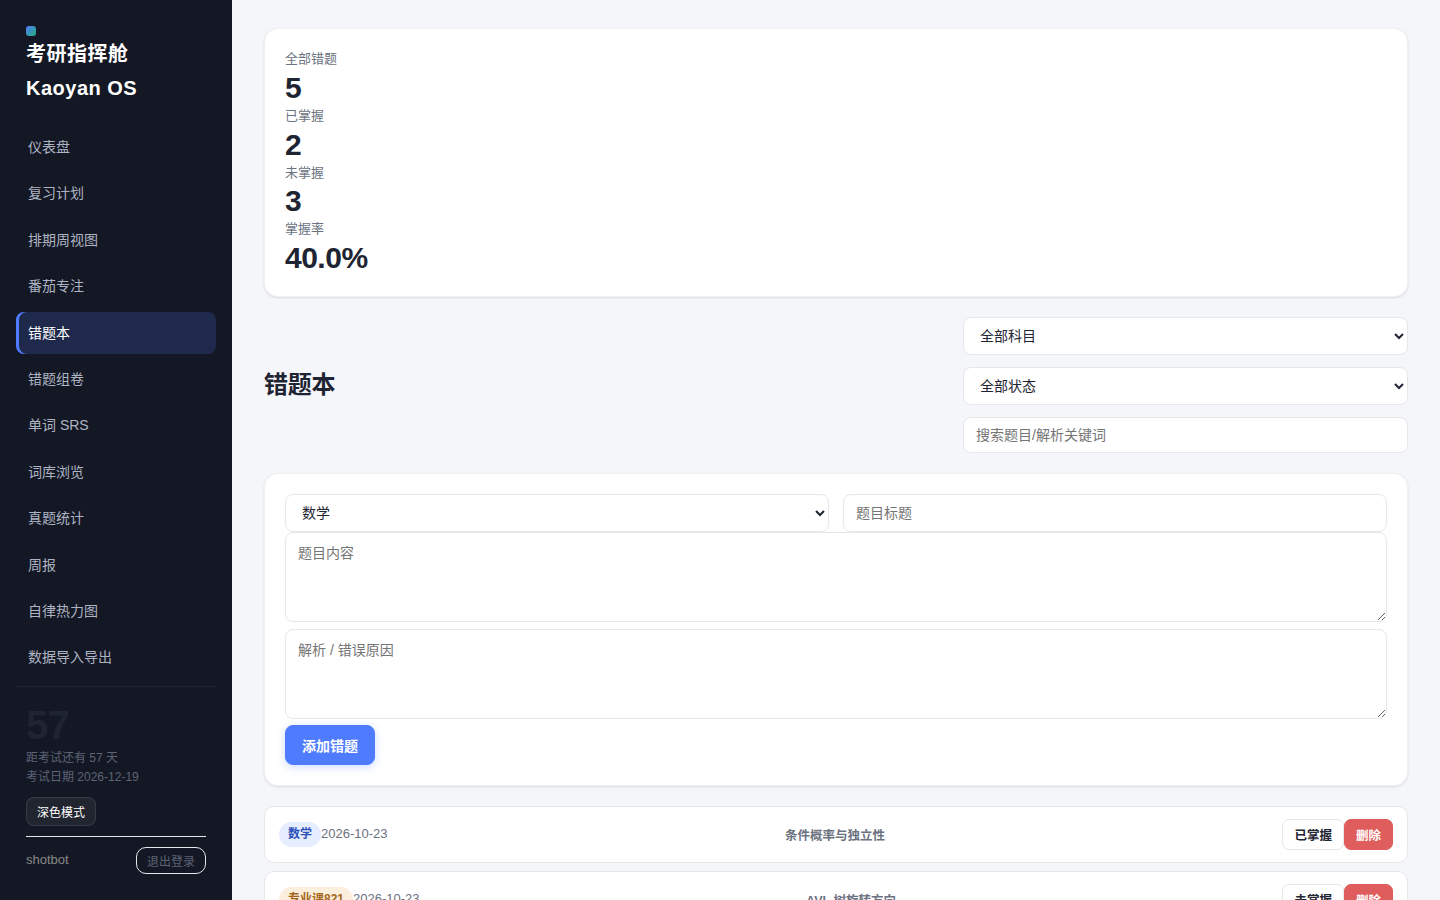
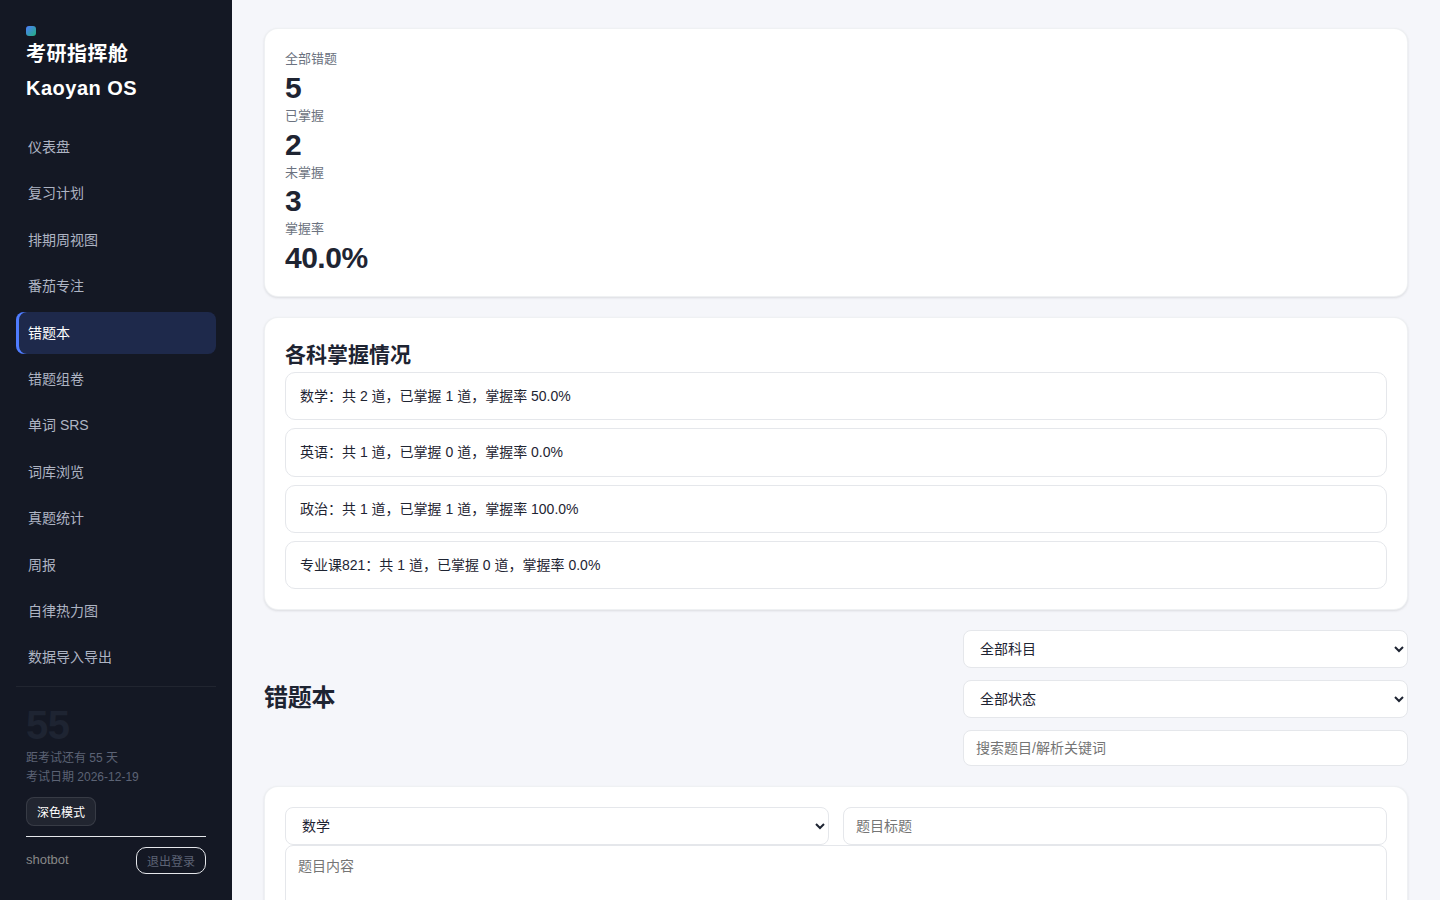
深耕轮2026-10-25 12:07（轮换到kaoyan-os）：v1.12.4「错题分科掌握率」——GET /api/mistakes/summary/by-subject + 错题页各科卡片；新测4例，靶向18例全绿，真实服务冒烟通过

diff --git a/kaoyan-os/apps/server/tests/mistakes-summary-by-subject.test.ts b/kaoyan-os/apps/server/tests/mistakes-summary-by-subject.test.ts
@@ -1,0 +1,110 @@
+import { describe, it, expect, beforeEach, afterAll } from 'vitest';
+import Fastify, { type FastifyInstance } from 'fastify';
+import { DatabaseSync } from 'node:sqlite';
+import { registerMistakesRoutes } from '../src/routes/mistakes';
+import { createDb as createRealDb } from '../src/db';
+import { applyAuthHook, registerAuthRoutes } from '../src/auth';
+import { registerAndLogin } from './test-utils';
+
+let db: DatabaseSync;
+let app: FastifyInstance;
+let authCookie: string;
+
+describe('GET /api/mistakes/summary/by-subject', () => {
+  beforeEach(async () => {
+    db = createRealDb(':memory:');
+    app = Fastify();
+    registerMistakesRoutes(app, db);
+    applyAuthHook(app, db);
+    registerAuthRoutes(app, db);
+    await app.ready();
+    authCookie = await registerAndLogin(app, 'mistakesbysubject');
+  });
+
+  afterAll(async () => {
+    if (app) await app.close();
+  });
+
+  it('空库返回 subjects 为空数组', async () => {
+    const res = await app.inject({
+      method: 'GET',
+      url: '/api/mistakes/summary/by-subject',
+      headers: { cookie: authCookie },
+    });
+    expect(res.statusCode).toBe(200);
+    expect(res.json()).toEqual({ subjects: [] });
+  });
+
+  it('分科统计精确值且按 SUBJECTS 顺序排列，零错题科目省略', async () => {
+    const insert = (
+      username: string,
+      subject: string,
+      title: string,
+      mastered: number,
+    ) => {
+      db.prepare(
+        "INSERT INTO mistakes (user_id, subject, title, mastered) VALUES ((SELECT id FROM users WHERE username = ?), ?, ?, ?)",
+      ).run(username, subject, title, mastered);
+    };
+
+    insert('mistakesbysubject', 'english', `title-en1-${Math.random()}`, 1);
+    insert('mistakesbysubject', 'politics', `title-po1-${Math.random()}`, 0);
+    insert('mistakesbysubject', 'math', `title-ma1-${Math.random()}`, 1);
+    insert('mistakesbysubject', 'math', `title-ma2-${Math.random()}`, 0);
+    insert('mistakesbysubject', 'math', `title-ma3-${Math.random()}`, 0);
+    insert('mistakesbysubject', 'english', `title-en2-${Math.random()}`, 1);
+
+    const res = await app.inject({
+      method: 'GET',
+      url: '/api/mistakes/summary/by-subject',
+      headers: { cookie: authCookie },
+    });
+    expect(res.statusCode).toBe(200);
+    expect(res.json()).toEqual({
+      subjects: [
+        { subject: 'math', total: 3, mastered: 1, unmastered: 2, masteredRate: 0.3333 },
+        { subject: 'english', total: 2, mastered: 2, unmastered: 0, masteredRate: 1 },
+        { subject: 'politics', total: 1, mastered: 0, unmastered: 1, masteredRate: 0 },
+      ],
+    });
+  });
+
+  it('只统计当前用户，他人错题不计入', async () => {
+    await registerAndLogin(app, 'mistakesbysubjectother');
+
+    const insert = (
+      username: string,
+      subject: string,
+      title: string,
+      mastered: number,
+    ) => {
+      db.prepare(
+        "INSERT INTO mistakes (user_id, subject, title, mastered) VALUES ((SELECT id FROM users WHERE username = ?), ?, ?, ?)",
+      ).run(username, subject, title, mastered);
+    };
+
+    insert('mistakesbysubjectother', 'math', `title-other1-${Math.random()}`, 1);
+    insert('mistakesbysubjectother', 'math', `title-other2-${Math.random()}`, 1);
+    insert('mistakesbysubject', 'math', `title-main1-${Math.random()}`, 0);
+
+    const res = await app.inject({
+      method: 'GET',
+      url: '/api/mistakes/summary/by-subject',
+      headers: { cookie: authCookie },
+    });
+    expect(res.statusCode).toBe(200);
+    expect(res.json()).toEqual({
+      subjects: [
+        { subject: 'math', total: 1, mastered: 0, unmastered: 1, masteredRate: 0 },
+      ],
+    });
+  });
+
+  it('未登录返回 401', async () => {
+    const res = await app.inject({
+      method: 'GET',
+      url: '/api/mistakes/summary/by-subject',
+    });
+    expect(res.statusCode).toBe(401);
+  });
+});

diff --git a/kaoyan-os/apps/server/src/routes/mistakes.ts b/kaoyan-os/apps/server/src/routes/mistakes.ts
@@ -2,10 +2,13 @@ import type { FastifyInstance } from 'fastify';
 import type { DatabaseSync } from 'node:sqlite';
 import {
   isSubjectKey,
+  SUBJECTS,
   type Mistake,
   type CreateMistakeInput,
   type UpdateMistakeInput,
   type MistakeSummary,
+  type MistakeSubjectSummary,
+  type MistakesBySubjectResponse,
   type ExamRecord,
   type QuizItem,
   type QuizGradeResult,
@@ -83,6 +86,31 @@ export function registerMistakesRoutes(app: FastifyInstance, db: DatabaseSync): 
       unmastered,
       masteredRate,
     };
+    return reply.send(result);
+  });
+
+  // 错题分科掌握率：仅返回有错题的科目，按 SUBJECTS 顺序排列
+  app.get('/api/mistakes/summary/by-subject', async (request, reply) => {
+    const rows = db
+      .prepare(
+        'SELECT subject, COUNT(*) AS total, COALESCE(SUM(mastered), 0) AS mastered FROM mistakes WHERE user_id = ? GROUP BY subject',
+      )
+      .all(request.user!.id) as Array<{ subject: string; total: number; mastered: number }>;
+
+    const subjectMap = new Map(rows.map((r) => [r.subject, r]));
+
+    const subjects: MistakeSubjectSummary[] = [];
+    for (const s of SUBJECTS) {
+      const row = subjectMap.get(s.key);
+      if (row && row.total > 0) {
+        const { total, mastered } = row;
+        const unmastered = total - mastered;
+        const masteredRate = total === 0 ? 0 : Math.round((mastered / total) * 10000) / 10000;
+        subjects.push({ subject: s.key, total, mastered, unmastered, masteredRate });
+      }
+    }
+
+    const result: MistakesBySubjectResponse = { subjects };
     return reply.send(result);
   });
 

diff --git a/kaoyan-os/apps/web/src/pages/Mistakes.tsx b/kaoyan-os/apps/web/src/pages/Mistakes.tsx
@@ -4,6 +4,7 @@ import {
   SUBJECTS,
   type Mistake,
   type MistakeSummary,
+  type MistakesBySubjectResponse,
   type SubjectKey,
   type CreateMistakeInput,
   type ExamRecord,
@@ -49,6 +50,8 @@ export default function Mistakes() {
 
   // 掌握率汇总（跟随科目筛选）
   const [summary, setSummary] = useState<MistakeSummary | null>(null)
+  // 分科掌握率，不跟随科目筛选，是全量分科
+  const [bySubject, setBySubject] = useState<MistakesBySubjectResponse | null>(null)
 
 
   // 当前展开查看详情的错题 id
@@ -109,6 +112,14 @@ export default function Mistakes() {
       })
       .catch(() => {
         if (!cancelled) setSummary(null)
+      })
+    api
+      .mistakeBySubject()
+      .then((r) => {
+        if (!cancelled) setBySubject(r)
+      })
+      .catch(() => {
+        if (!cancelled) setBySubject(null)
       })
     return () => {
       cancelled = true
@@ -197,6 +208,19 @@ export default function Mistakes() {
               </div>
             </div>
           </div>
+        </div>
+      )}
+
+      {bySubject != null && bySubject.subjects.length > 0 && (
+        <div className="card">
+          <h2>各科掌握情况</h2>
+          <ul className="list">
+            {bySubject.subjects.map((item) => (
+              <li className="list-item" key={item.subject}>
+                {subjectName(item.subject)}：共 {item.total} 道，已掌握 {item.mastered} 道，掌握率 {(item.masteredRate * 100).toFixed(1)}%
+              </li>
+            ))}
+          </ul>
         </div>
       )}
 

diff --git a/kaoyan-os/apps/server/tests/api-route-parity.deep5.test.ts b/kaoyan-os/apps/server/tests/api-route-parity.deep5.test.ts
@@ -32,6 +32,7 @@ describe('api route parity deep5', () => {
     'GET /api/mistakes',
     'GET /api/mistakes/:p/source-exams',
     'GET /api/mistakes/summary',
+    'GET /api/mistakes/summary/by-subject',
     'GET /api/plans',
     'GET /api/plans/auto-schedule/preview',
   'GET /api/plans/overdue',
@@ -91,8 +92,8 @@ describe('api route parity deep5', () => {
     await app.close();
   });
 
-  it('解析出 49 个前端 api 调用（数量快照）', () => {
-    expect(pairs.length).toBe(49);
+  it('解析出 50 个前端 api 调用（数量快照）', () => {
+    expect(pairs.length).toBe(50);
   });
 
   it('解析结果与 EXPECTED 快照完全一致', () => {

diff --git a/kaoyan-os/apps/web/src/api.ts b/kaoyan-os/apps/web/src/api.ts
@@ -13,6 +13,7 @@ import type {
   OverloadResponse,
   Mistake,
   MistakeSummary,
+  MistakesBySubjectResponse,
   CreateMistakeInput,
   UpdateMistakeInput,
   QuizItem,
@@ -198,6 +199,8 @@ export const api = {
   // 错题掌握率汇总
   mistakeSummary: (subject?: string) =>
     request<MistakeSummary>(`/mistakes/summary${qs({ subject })}`),
+  mistakeBySubject: () =>
+    request<MistakesBySubjectResponse>('/mistakes/summary/by-subject'),
   mistakeSourceExams: (id: number, windowDays?: number) =>
     request<ExamRecord[]>(`/mistakes/${id}/source-exams${qs({ windowDays })}`),
   generateQuiz: (input: QuizGenerateInput) =>

diff --git a/kaoyan-os/packages/shared/src/index.ts b/kaoyan-os/packages/shared/src/index.ts
@@ -333,6 +333,16 @@ mastered: number;
 unmastered: number;
 masteredRate: number;
 }
+export interface MistakeSubjectSummary {
+  subject: SubjectKey;
+  total: number;
+  mastered: number;
+  unmastered: number;
+  masteredRate: number;
+}
+export interface MistakesBySubjectResponse {
+  subjects: MistakeSubjectSummary[];
+}
 
 /** 账号体系：用户 */
 export interface User { id: number; username: string; createdAt: string;}

diff --git a/kaoyan-os/docs/PRODUCTION_CHECKLIST_REPORT_v1.12.4.md b/kaoyan-os/docs/PRODUCTION_CHECKLIST_REPORT_v1.12.4.md
@@ -1,0 +1,56 @@
+# kaoyan-os v1.12.4「错题分科掌握率」发版前 Definition of Done 对照报告
+
+## 背景
+
+- **版本**：v1.12.4（2026-10-25 深耕轮，轮换到 kaoyan-os）
+- **核心交付**：错题分科掌握率——后端 `GET /api/mistakes/summary/by-subject`、共享类型 `MistakeSubjectSummary` / `MistakesBySubjectResponse`、前端错题页「各科掌握情况」卡片、4 例新测试。
+- **判定依据声明**：本报告所有判定仅基于本次版本事实（交付内容、测试清单、变更文件、未做清单）。凡本次版本事实未覆盖的条目，一律标注「未验证」或「不适用」，不做推测或补全。
+- **标准声明**：判定取值限定为 通过 / 通过（部分）/ 未通过 / 未验证 / 不适用。
+
+## 变更清单
+
+| 类别 | 文件 |
+| --- | --- |
+| 服务端（修改） | `apps/server/src/routes/mistakes.ts`（新增分科汇总路由） |
+| 共享包（修改） | `packages/shared/src/index.ts`（新增两个类型） |
+| 前端（修改） | `apps/web/src/api.ts`（新增 mistakeBySubject）、`apps/web/src/pages/Mistakes.tsx`（新增各科掌握情况卡片，复用现有 CSS 类） |
+| 文档（新增） | `docs/PRODUCTION_CHECKLIST_REPORT_v1.12.4.md`（本报告） |
+| 文档（修改） | `docs/API.md`（新增分科汇总节）、`CHANGELOG.md`（v1.12.4 节） |
+| 测试（新增） | `apps/server/tests/mistakes-summary-by-subject.test.ts`（4 例） |
+| 测试（修改） | `apps/server/tests/api-route-parity.deep5.test.ts`（调用数快照 49→50、EXPECTED 新增分科汇总路由） |
+
+## 逐条对照
+
+### 1. 可靠性
+
+- **判定**：通过
+- **理由**：新测试 4 例覆盖空库、科目顺序与零错题科目省略、用户隔离、未登录 401；靶向重跑后文档同步、路由快照、新接口测试全部通过。
+
+### 2. 可观测性
+
+- **判定**：不适用
+- **理由**：本接口未新增专属指标或告警，沿用现有监控体系。
+
+### 3. 数据与状态
+
+- **判定**：通过
+- **理由**：纯只读聚合查询，无数据库迁移、无写操作；用户隔离由 user_id 过滤保证并经测试验证。
+
+### 4. 部署与运维
+
+- **判定**：不适用
+- **理由**：无部署配置、环境变量或运维手册变更。
+
+### 5. 安全
+
+- **判定**：通过
+- **理由**：复用现有认证钩子，未登录返回 401 已验证；无新增输入参数，无注入面。
+
+### 6. 可维护
+
+- **判定**：通过
+- **理由**：复用现有汇总舍入逻辑与前端 CSS 类；API 文档与路由快照随新路由同步更新；错题页截图集无需更新（无新样式）。
+
+## 总体结论
+
+可发版。限制：未执行负载测试；无新监控指标或告警；无数据库迁移与部署变更。

diff --git a/kaoyan-os/docs/API.md b/kaoyan-os/docs/API.md
@@ -722,6 +722,47 @@
 | 400 | `{ "error": "无效的 subject 参数" }` | subject 提供但不是合法学科 key |
 | 401 | （未认证响应） | 未登录或认证失败 |
 
+### `GET /api/mistakes/summary/by-subject`
+
+| 方法 | 路径 | 认证 |
+| --- | --- | --- |
+| GET | /api/mistakes/summary/by-subject | 需要（登录用户） |
+
+按科目返回错题掌握率汇总：仅返回有错题的科目，按数学、英语、政治、专业课 821 的顺序排列；掌握率与单科汇总用同一舍入口径（4 位小数）。
+
+本接口无请求参数。
+
+**成功响应**
+
+状态码 200
+
+```json
+{
+  "subjects": [
+    {
+      "subject": "math",
+      "total": 3,
+      "mastered": 1,
+      "unmastered": 2,
+      "masteredRate": 0.3333
+    },
+    {
+      "subject": "english",
+      "total": 2,
+      "mastered": 2,
+      "unmastered": 0,
+      "masteredRate": 1
+    }
+  ]
+}
+```
+
+**错误码**
+
+| 状态码 | 返回体 | 触发条件 |
+| --- | --- | --- |
+| 401 | （未认证响应） | 未登录或认证失败 |
+
 ### `GET /api/mistakes`
 
 | 方法 | 路径 | 认证 |

diff --git a/kaoyan-os/CHANGELOG.md b/kaoyan-os/CHANGELOG.md
@@ -4,6 +4,15 @@
 
 格式遵循 [Keep a Changelog](https://keepachangelog.com/zh-CN/1.1.0/)。
 
+## [1.12.4] - 2026-10-25
+
+### Added
+
+- 后端新增 `GET /api/mistakes/summary/by-subject`，按科目返回错题掌握率汇总：仅返回有错题的科目，按数学、英语、政治、专业课 821 的顺序排列，掌握率与单科汇总同一舍入口径（4 位小数）。
+- 共享包新增 `MistakeSubjectSummary` 与 `MistakesBySubjectResponse` 类型。
+- 前端错题页新增「各科掌握情况」卡片（复用现有 card/list/list-item 样式，无新增 CSS），跟随汇总卡片展示，不跟随科目筛选。
+- 新增 `tests/mistakes-summary-by-subject.test.ts` 4 例：空库、科目顺序与零错题科目省略、用户隔离、未登录 401。
+
 ## [1.12.3] - 2026-10-25
 
 ### Added
